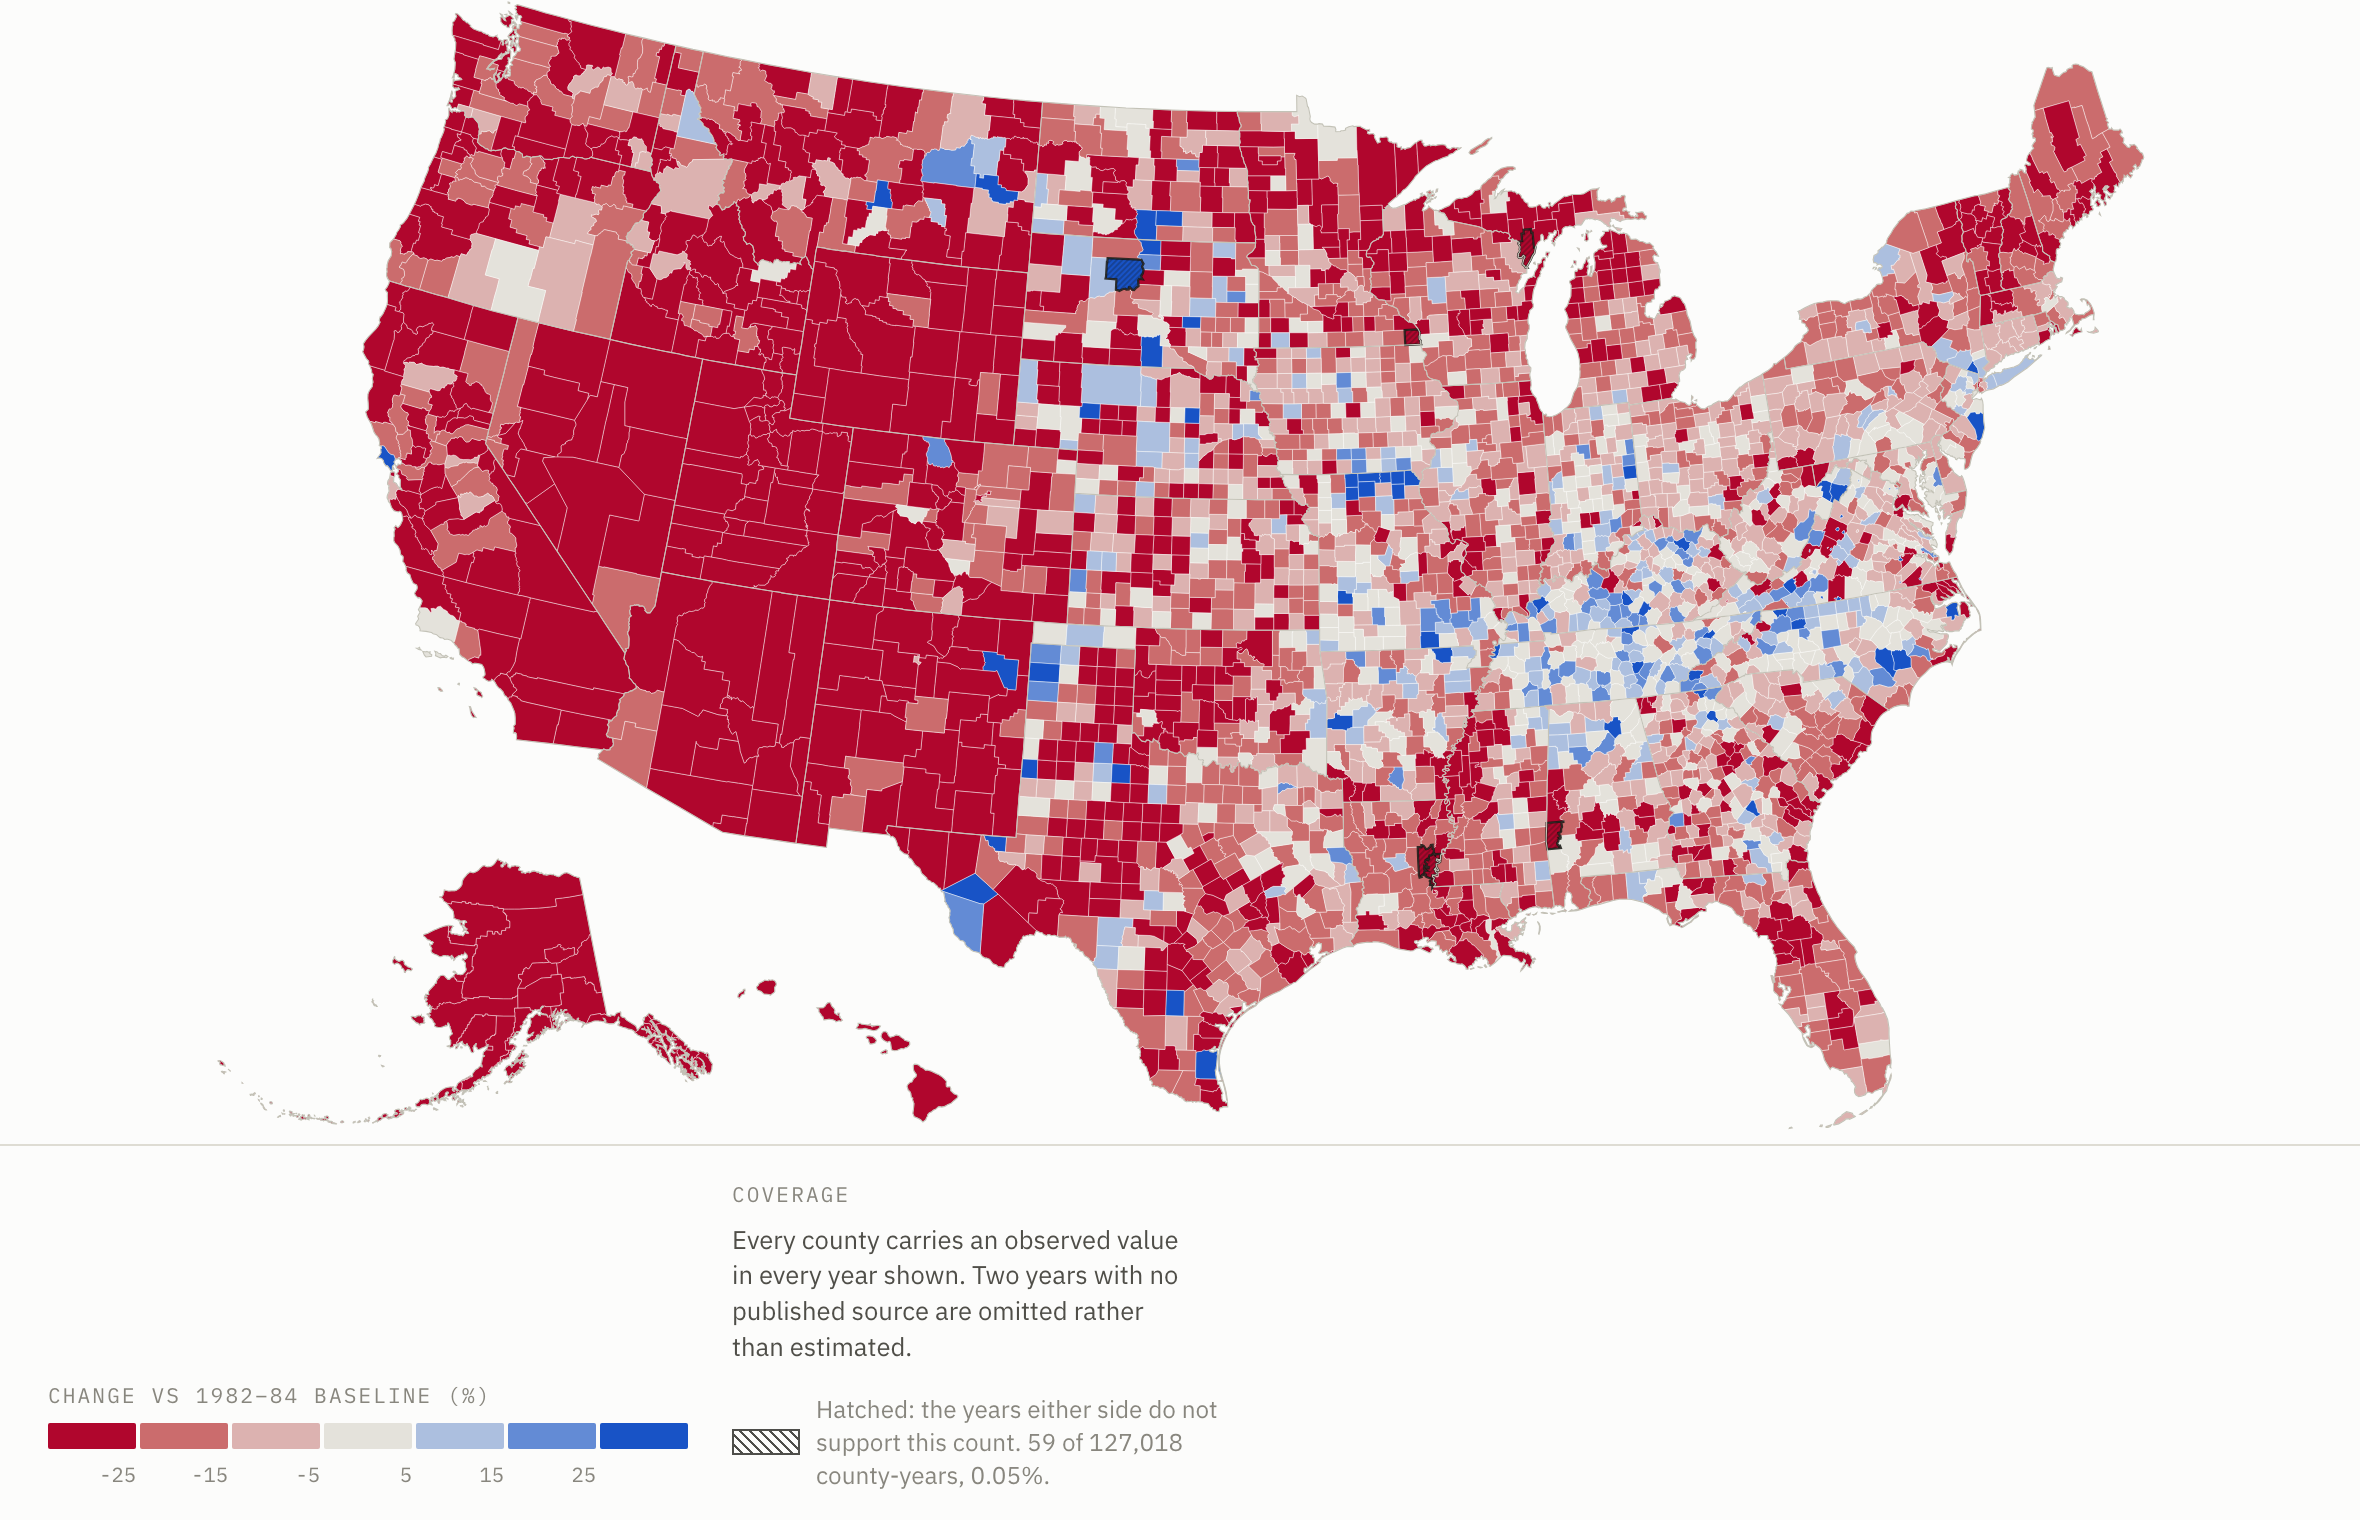
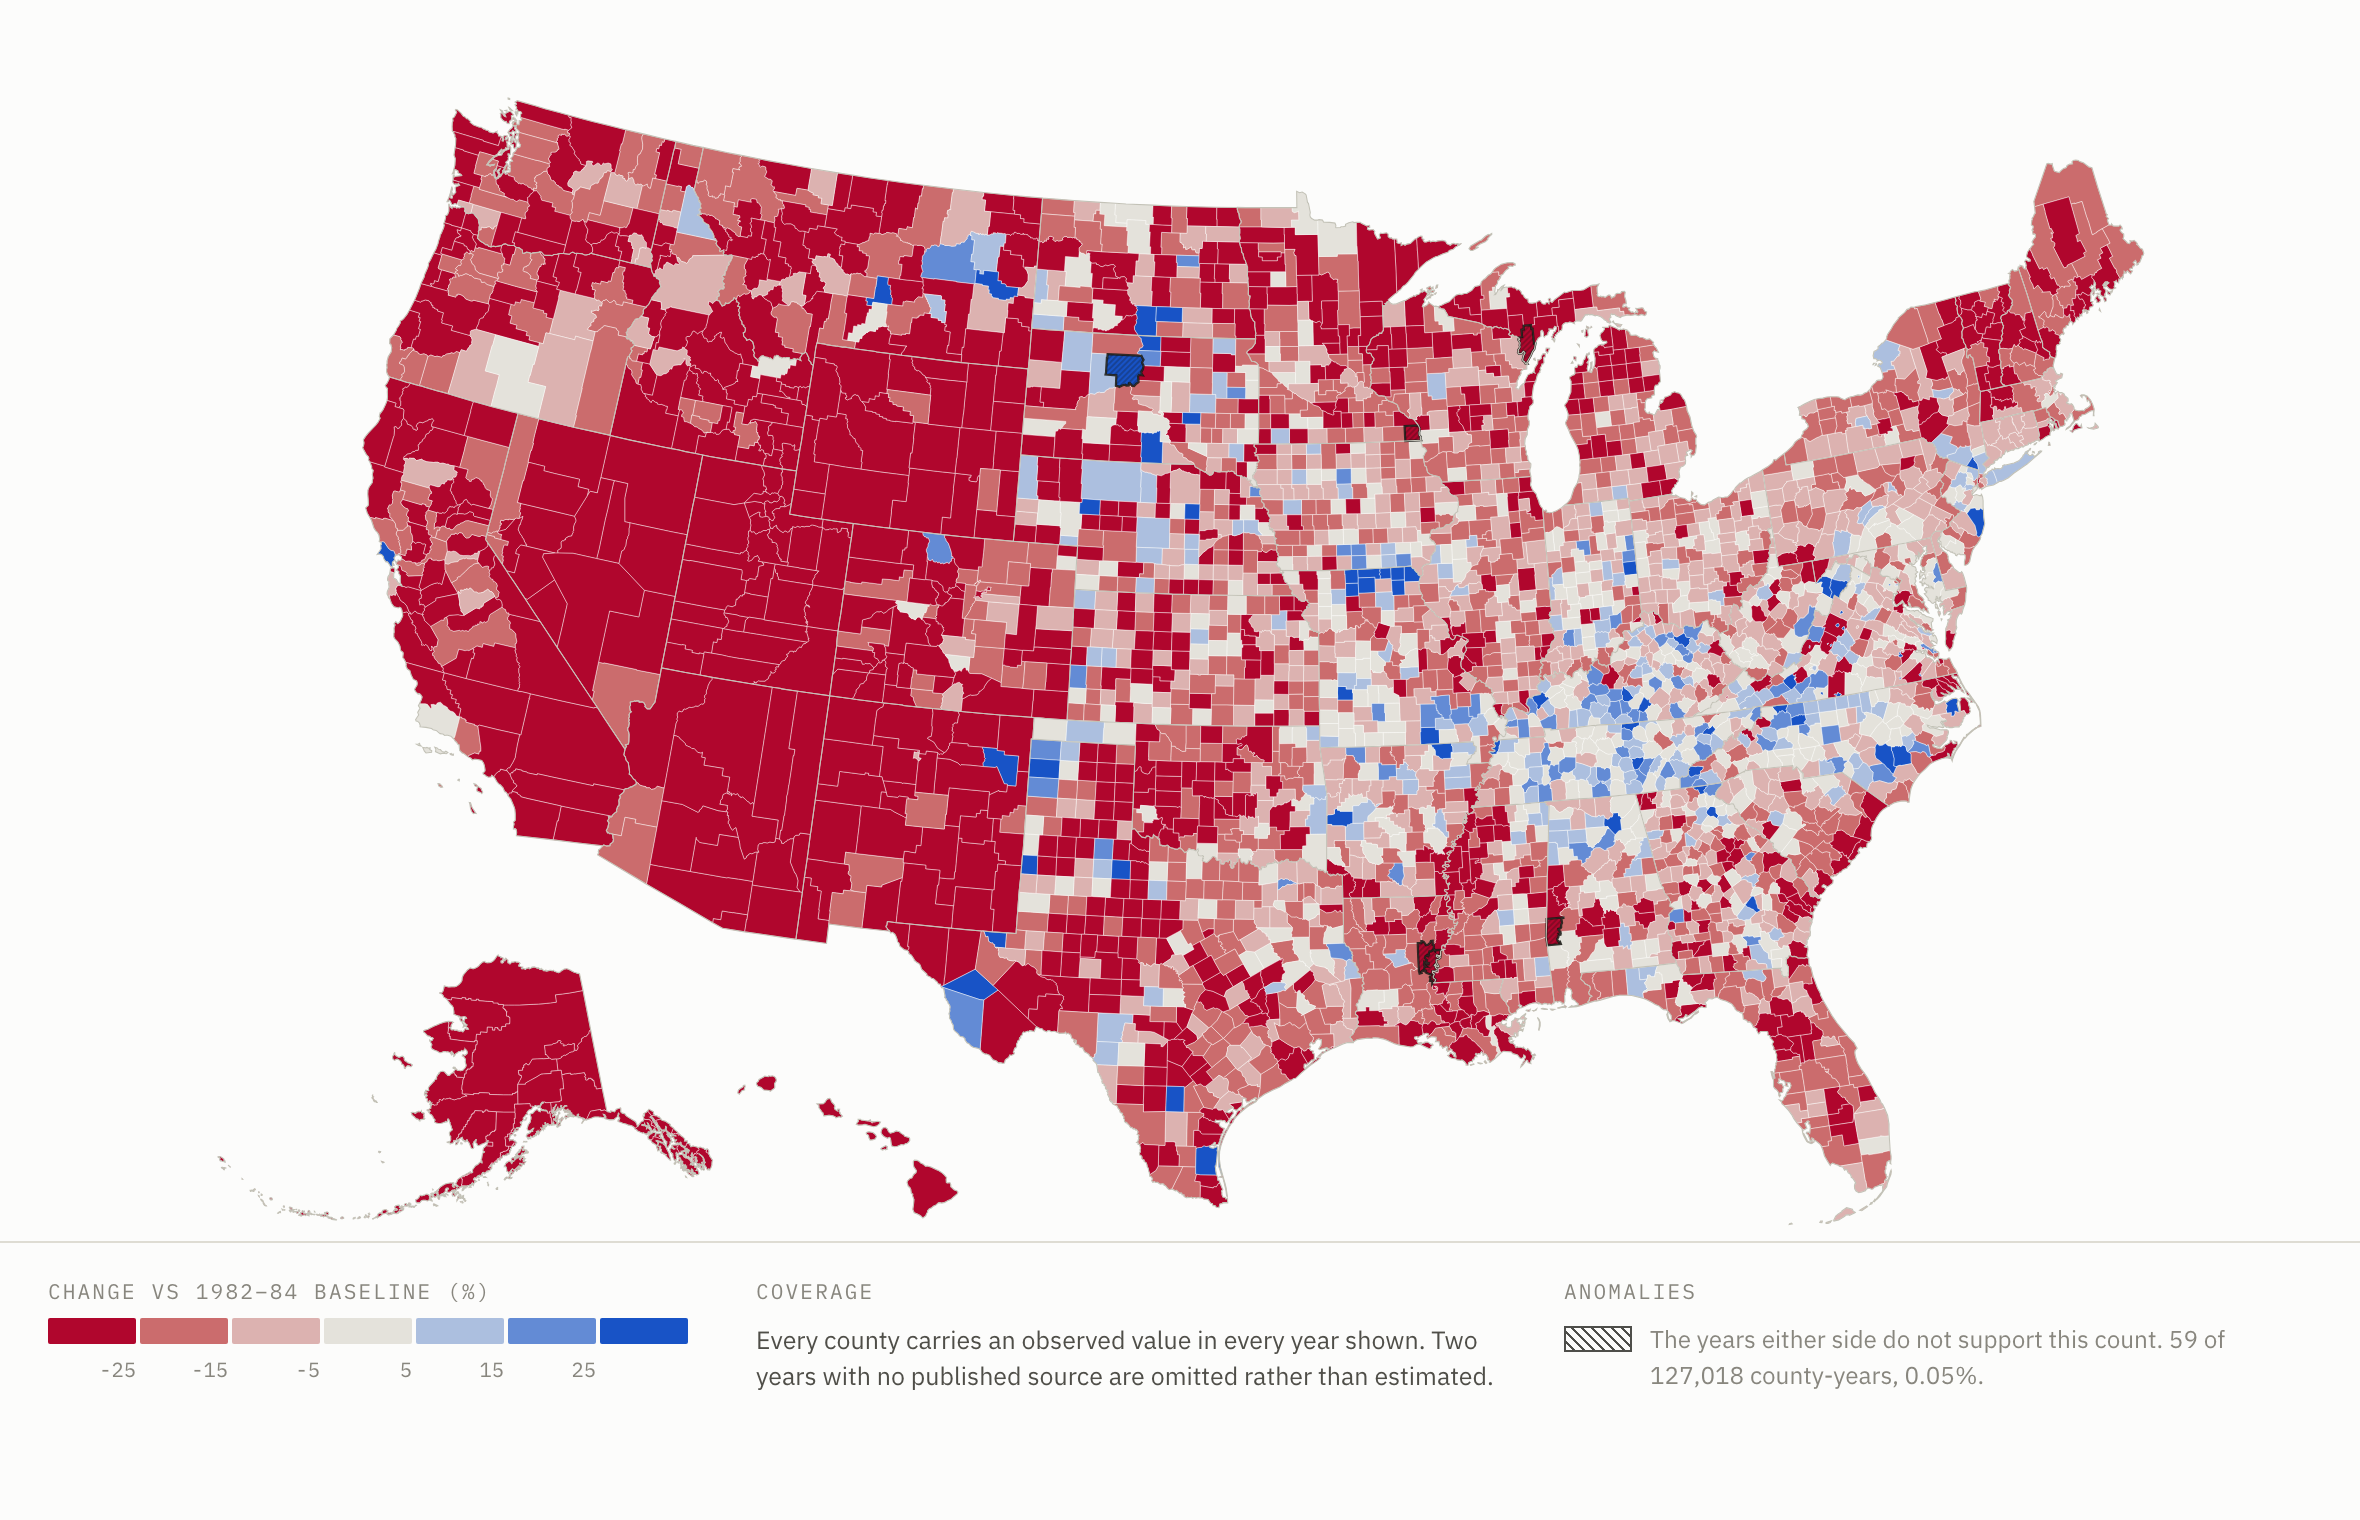
Pin the chart export to light, and refresh the two map images
The page follows prefers-color-scheme, so an export run on a machine set to
dark rendered every chart dark - for posts that are light. Nothing in the run
said so; it reports file sizes, and dark PNGs are the same size as light ones.
Caught only by diffing the output against what was committed.

The template already carries the escape hatch its own theme toggle uses, so
the bootstrap sets data-theme="light" and the browser is told the preferred
scheme before first paint. The export is deterministic again: re-running it
now reproduces eleven of the thirteen images byte for byte.

The two that do change are the map renders, which pick up the new legend.

Claude-Session: https://claude.ai/code/session_01Dqn3Ph8CXQZqqXmTpYHSoa

diff --git a/viz/export_charts.py b/viz/export_charts.py
@@ -45,6 +45,10 @@ BACKTEST = ROOT / "data" / "processed" / "_allocation_backtest.json"
 BOOTSTRAP = """
 <script>
 (function(){
+  // The page follows prefers-color-scheme, so an export run on a machine set
+  // to dark produced dark charts for a light post - silently, since the run
+  // reports only file sizes. The template's own escape hatch pins it.
+  document.documentElement.dataset.theme = "light";
   const params = new URLSearchParams(location.search);
   const want = params.get("chart");
   const W = +params.get("w"), H = +params.get("h");
@@ -137,6 +141,10 @@ def main() -> None:
         url = f"file://{export_page}?chart={chart_id}&w={w}&h={h}"
         subprocess.run(
             [CHROME, "--headless", "--disable-gpu", "--no-sandbox", "--hide-scrollbars",
+             # belt and braces with the data-theme above: this settles the
+             # colour scheme before first paint, so nothing renders dark even
+             # for the instant before the bootstrap script runs
+             "--blink-settings=preferredColorScheme=1",
              "--force-color-profile=srgb", f"--force-device-scale-factor={SCALE}",
              f"--window-size={w},{h}", "--virtual-time-budget=25000",
              f"--screenshot={dest}", url],
